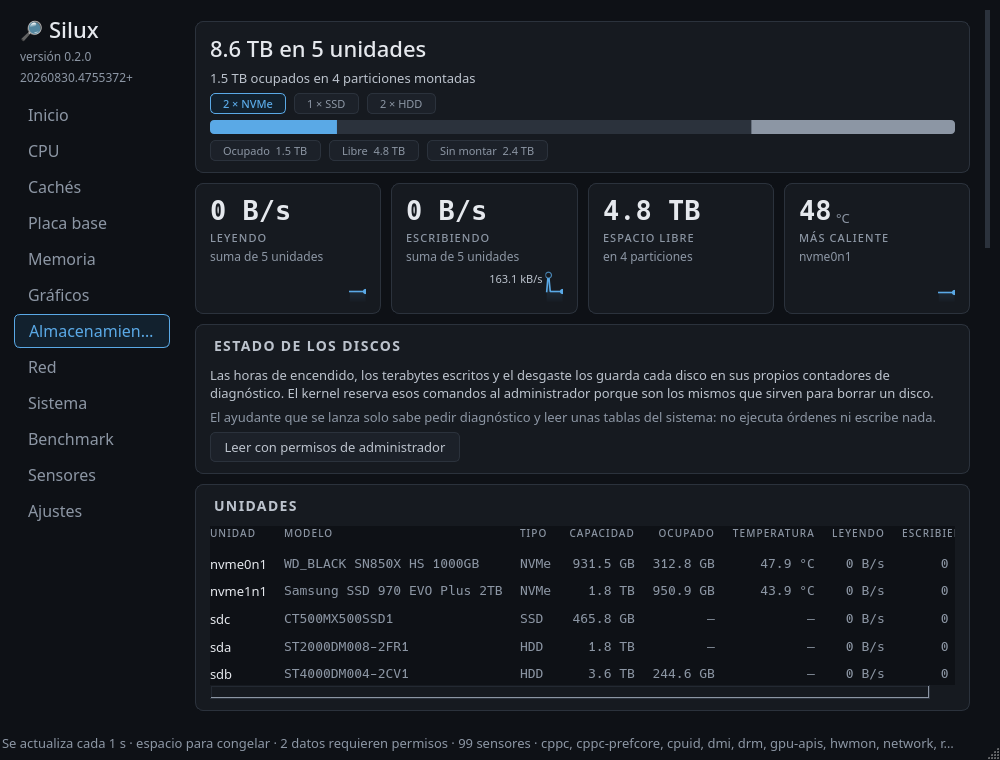
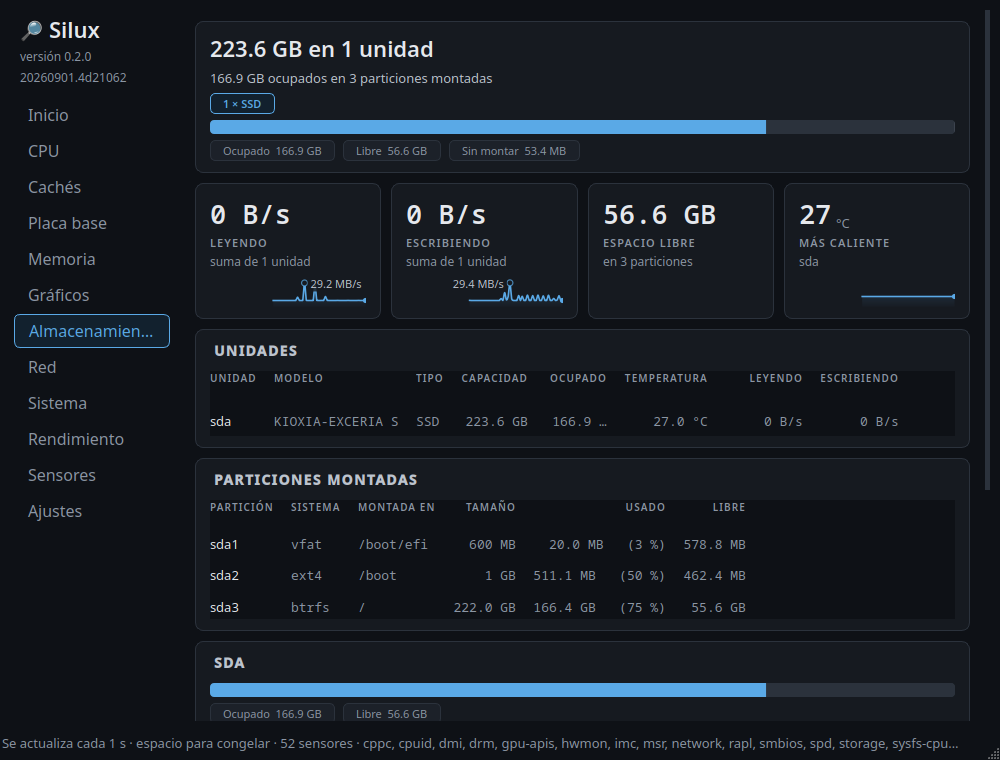
Capturas nuevas y el README al día
Las de antes eran del 31 de agosto y ya no enseñaban el programa que hay: el
menú decía «Benchmark» donde ahora dice «Rendimiento», y ninguna llevaba el
tráfico de la memoria ni el árbol de sensores en el orden correcto, que es
justo lo que se arregló hoy.

Van con permisos, que es la diferencia entre enseñar la ficha de memoria con
sus dos módulos y enseñarla pidiéndolos. El modo `--screenshot` no eleva —sin
ventana no tiene con quién hablar— así que se toman con el mismo flujo desde
fuera, incluido el `--anonimo` de verdad y la marca dentro del PNG.

Ocho sustituyen a cinco: Inicio, CPU, Cachés, Placa base, Memoria, Gráficos,
Almacenamiento y Sensores. Se van las de Red y Sistema, que no las usaba nadie
—la de Sistema ya estaba huérfana— y quedarse en el repo sin que las mire
nadie es lo que hace que envejezcan sin que se note.

El README tampoco mencionaba el ancho de banda ni las latencias de memoria,
que llevaban tiempo hechos, ni el contador del controlador.

diff --git a/README.md b/README.md
@@ -20,11 +20,20 @@ Escrito con ayuda de Claude.
 ![La pestaña de CPU](capturas/cpu.png)
 
 <p align="center">
-  <img src="capturas/graficos.png" width="49%" alt="Gráficos">
+  <img src="capturas/inicio.png" width="49%" alt="Inicio">
   <img src="capturas/sensores.png" width="49%" alt="Sensores">
+  <img src="capturas/memoria.png" width="49%" alt="Memoria">
+  <img src="capturas/graficos.png" width="49%" alt="Gráficos">
+  <img src="capturas/caches.png" width="49%" alt="Cachés">
+  <img src="capturas/placa-base.png" width="49%" alt="Placa base">
   <img src="capturas/almacenamiento.png" width="49%" alt="Almacenamiento">
-  <img src="capturas/red.png" width="49%" alt="Red">
 </p>
+
+Están tomadas con `--anonimo`, que cambia el nombre del equipo, las
+direcciones y los números de serie por otros de la misma pinta. Cada PNG lleva
+escrito dentro si se hizo así, porque `tools/comprobar_privacidad.py` busca
+texto y una captura es un mapa de píxeles: sin esa marca no habría forma de
+comprobarlo después.
 
 ## Qué es y qué no
 
@@ -167,6 +176,8 @@ interfaz es lo único que lo necesita.
 | Placa, BIOS, versión y fecha del firmware | `/sys/class/dmi/id` | no |
 | Módulos de RAM: fabricante, chips, referencia, fecha | SPD por SMBus | no |
 | Velocidad catalogada y temporizaciones JEDEC/XMP | SPD por SMBus | no |
+| Ancho de banda de la RAM y latencia por nivel de caché | medido en otro proceso | no |
+| Tráfico del controlador de memoria, ahora mismo | PMU del uncore (solo Intel) | sí |
 | UEFI o BIOS heredada, arranque seguro, TPM | `/sys/firmware`, `/sys/class/tpm` | no |
 | Chipset y controlador de memoria | bus PCI + `pci.ids` | no |
 | Umbrales de alarma de cada sensor | `hwmon` (`*_max`, `*_crit`) | no |
@@ -195,7 +206,7 @@ La última hace falta porque pasar en el Python de uno no dice nada del mínimo
 que declara el proyecto: corre la suite dentro de una Ubuntu 22.04, que es la
 misma en la que corre el CI y en la que se construye el AppImage.
 
-Son 1438 y tardan cerca de dos minutos. Ninguno necesita hardware concreto:
+Son 1476 y tardan cerca de dos minutos. Ninguno necesita hardware concreto:
 los proveedores se prueban contra árboles de sysfs sintéticos, el generador
 contra fragmentos de C, y los chips (SPD, EDID, SMART, `gpu_metrics`) contra
 volcados binarios de piezas reales guardados en `tests/fixtures`.
